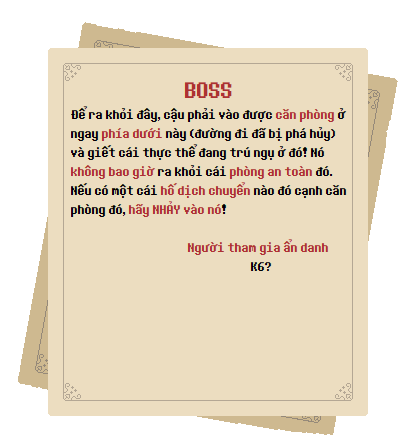
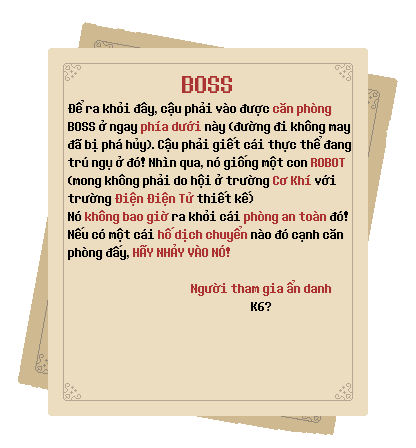
THUAN LAM PHAN ENEMY VA BOSS ATTACK!

Changed region(s): [[0.1562, 0.1562, 0.8438, 0.6875]]

diff --git a/src/main/GamePanel.java b/src/main/GamePanel.java
@@ -232,7 +232,7 @@ public class GamePanel extends JPanel implements Runnable {
 		gameState = titleScreen;
 
 		try {
-			escapeImage = ImageIO.read(getClass().getResourceAsStream("/letter/escape-ver2.png"));
+			escapeImage = ImageIO.read(getClass().getResourceAsStream("/letter/key.png"));
 		} catch (IOException e) {
 		e.printStackTrace();
 		}
@@ -469,7 +469,7 @@ public class GamePanel extends JPanel implements Runnable {
 			//g2.dispose();
 		}
 		if (gameState != titleScreen && eHandler.hit(4, 2, "any")) {
-				g2.drawImage(escapeImage, 240, 100, 316, 368, null);
+				g2.drawImage(escapeImage, 240, 100, 416, 448, null);
 
 			//keyInput.interact = false;
 		}
